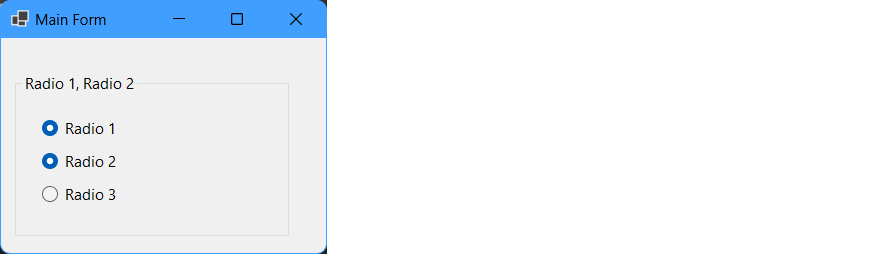
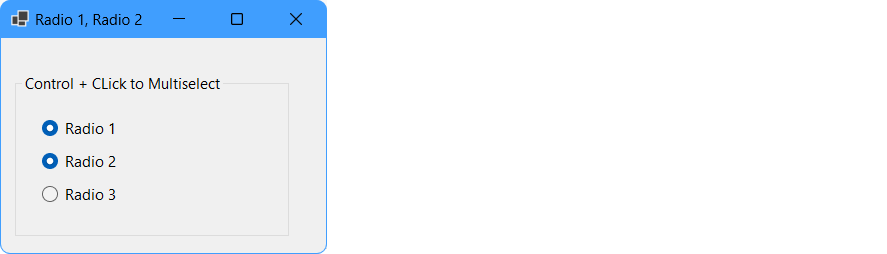
readme++

diff --git a/radio-button-mutiselect/MainForm.cs b/radio-button-mutiselect/MainForm.cs
@@ -40,12 +40,15 @@ namespace radio_button_mutiselect
         protected override void OnMouseUp(MouseEventArgs mevent)
         {
             base.OnMouseUp(mevent);
-            var group =
-                Parent.Controls
-                .Cast<Control>()
-                .Where(_ => _ is RadioButtonMulti)
-                .Where(_ => ((RadioButtonMulti)_).Checked);
-            Parent.Text = string.Join(", ", group.Select(_ => _.Text));
+            if(Form.ActiveForm != null)
+            {
+                var group =
+                    Parent.Controls
+                    .Cast<Control>()
+                    .Where(_ => _ is RadioButtonMulti)
+                    .Where(_ => ((RadioButtonMulti)_).Checked);
+                Form.ActiveForm.Text = string.Join(", ", group.Select(_ => _.Text));
+            }
         }
     }
 }

diff --git a/radio-button-mutiselect/MainForm.Designer.cs b/radio-button-mutiselect/MainForm.Designer.cs
@@ -45,7 +45,7 @@
             this.groupBox1.Size = new System.Drawing.Size(240, 123);
             this.groupBox1.TabIndex = 0;
             this.groupBox1.TabStop = false;
-            this.groupBox1.Text = "Radio 1";
+            this.groupBox1.Text = "Control + CLick to Multiselect";
             // 
             // radioButton3
             // 

diff --git a/README.md b/README.md
@@ -2,7 +2,7 @@ The nice thing about Winforms is that you can almost always inherit a standard c
 
 That said, I would argue it's "intuitive enough" to hold down the [Control] modifier key as an accepted way to access multiselection when it's available, so that's the approach I'll take for a `RadioButtonMulti` class that can be swapped out in your designer file.
 
-[![multiselected][1]][1] _Control + Click to multiselect._
+[![multiselect][1]][1] _Control + Click to multiselect._
 
 ***
 Looking at the default behavior of a RadioButton as documented [here](https://learn.microsoft.com/en-us/dotnet/desktop/winforms/controls/how-to-group-windows-forms-radiobutton-controls-to-function-as-a-set).
@@ -42,20 +42,25 @@ This tells us what exactly what we need to do! _We need to temporarily make the 
                 base.OnMouseDown(mevent);
             }
         }
-        // Display checked buttons as title of group
+
+Display selection in main form title bar for demonstration purposes only.
+
         protected override void OnMouseUp(MouseEventArgs mevent)
         {
             base.OnMouseUp(mevent);
-            var group =
-                Parent.Controls
-                .Cast<Control>()
-                .Where(_ => _ is RadioButtonMulti)
-                .Where(_ => ((RadioButtonMulti)_).Checked);
-            Parent.Text = string.Join(", ", group.Select(_ => _.Text));
+            if(Form.ActiveForm != null)
+            {
+                var group =
+                    Parent.Controls
+                    .Cast<Control>()
+                    .Where(_ => _ is RadioButtonMulti)
+                    .Where(_ => ((RadioButtonMulti)_).Checked);
+                Form.ActiveForm.Text = string.Join(", ", group.Select(_ => _.Text));
+            }
         }
     }
 ***
-1. (See also [Mental Models and Computer Models](https://www.cs.cornell.edu/courses/cs5150/2019sp/slides/9-usability.pdf) page 8).
+1. (See also [Mental Models and Computer Models](https://www.cs.cornell.edu/courses/cs5150/2019sp/slides/9-usability.pdf) page 11).
 
 
-  [1]: https://i.stack.imgur.com/FFMbg.png
+  [1]: https://i.stack.imgur.com/Ye5M8.png
